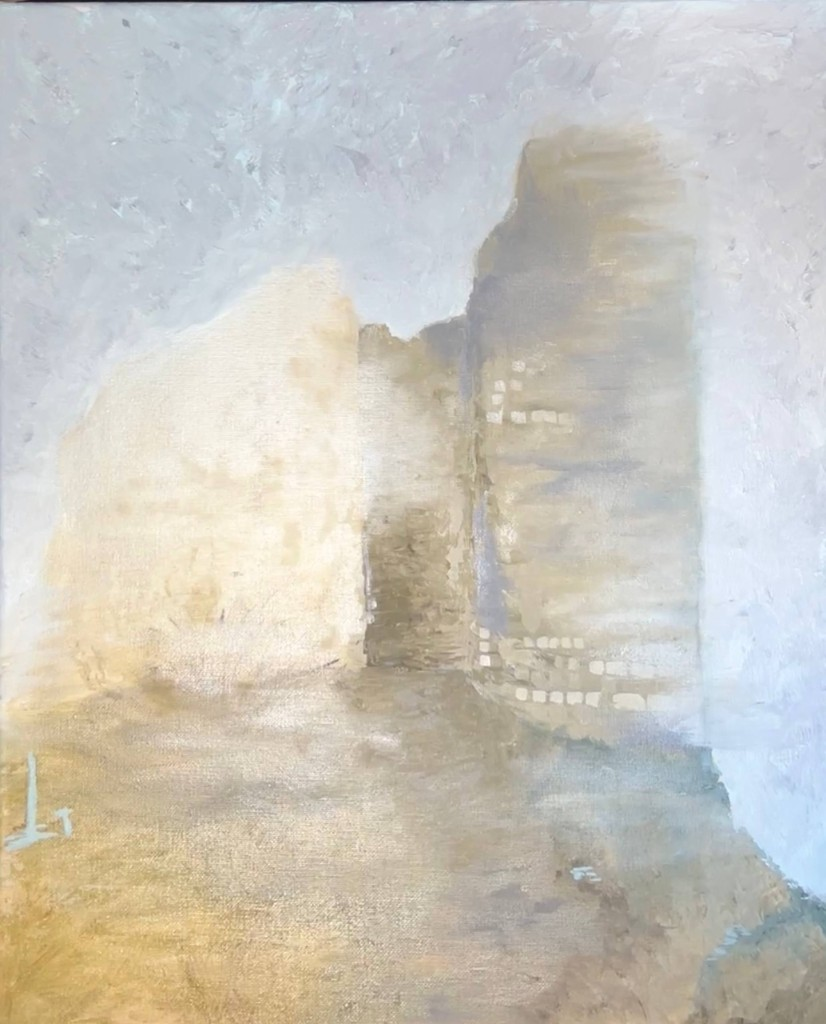
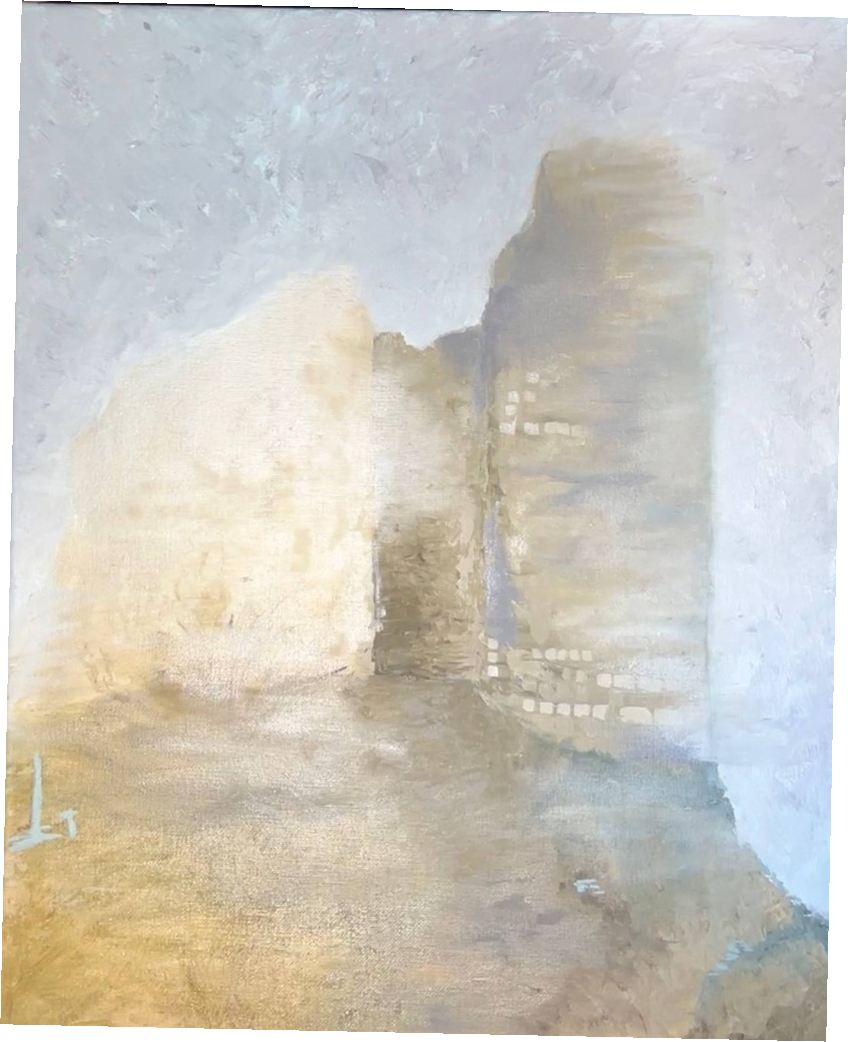
Straighten tilted artwork photos and fix hero alt text.
Make the main paintings sit upright on the page.

diff --git a/script.js b/script.js
@@ -144,7 +144,7 @@ function renderSlide(index, animate = true) {
     apply();
   }
 
-  if (heroImg) heroImg.alt = altFor(works[0], 0);
+  if (heroImg) heroImg.alt = i18n[lang].work_building || "";
 }
 
 function goTo(index) {
